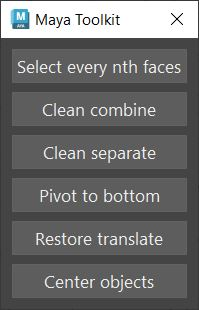
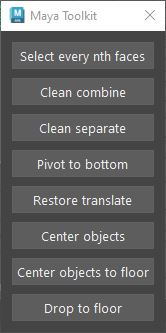
update readme

diff --git a/README.md b/README.md
@@ -41,3 +41,17 @@ Center selected objects to the world center.
 
 ![](./readme/before_center.jpg)
 ![](./readme/after_center.jpg)
+
+## Center objects to floor
+
+Move selected objects to the center on the grid.
+
+![](./readme/before_drop_to_center.jpg)
+![](./readme/after_drop_to_center.jpg)
+
+## Drop to floor
+
+Move selected objects on the grid only on the y-axis.
+
+![](./readme/before_drop_to_floor.jpg)
+![](./readme/after_drop_to_floor.jpg)
